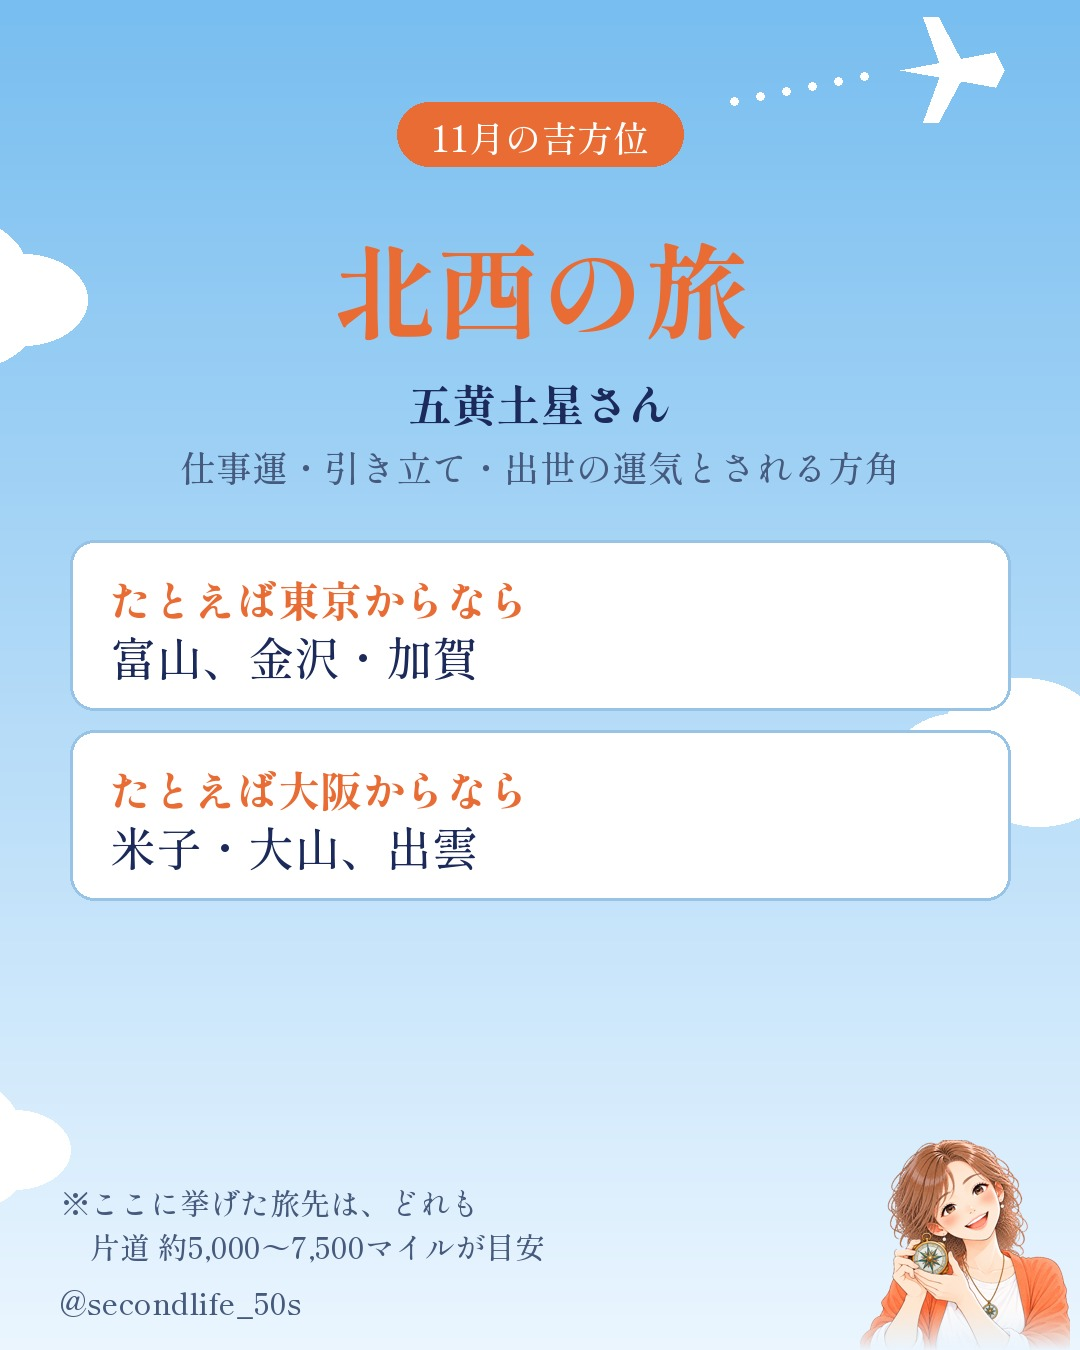
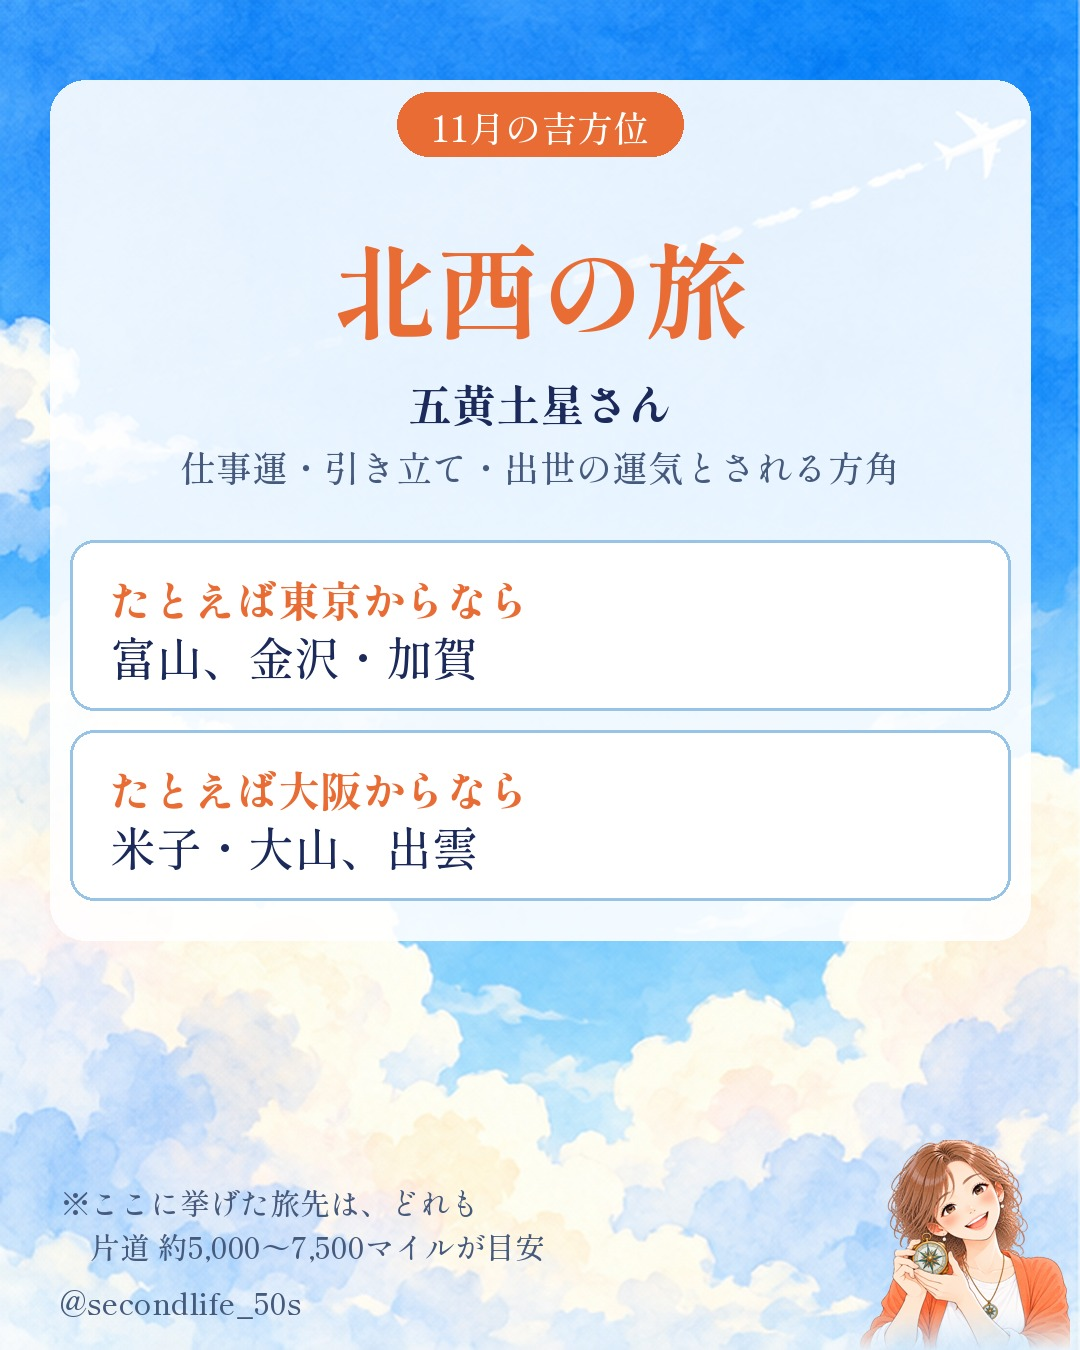
マイル投稿を水彩の空・世界一周の背景で作り直し、背景素材を追加

diff --git a/feed/mile-2026-11/make.py b/feed/mile-2026-11/make.py
@@ -7,23 +7,23 @@ F8='/root/.cache/night-reel-fonts/ShipporiMinchoB1-800.ttf'; F5='/root/.cache/ni
 NAVY=(27,42,90); GOLD=(232,108,52); WHITE=NAVY; SOFT=(70,90,125); CARD=(255,255,255); LINE=(150,195,230)
 C,OUT=sys.argv[1:3]
 f=lambda s,b=True: ImageFont.truetype(F8 if b else F5,s)
-def cloud(d,x,y,w):
-    for dx,dy,r in [(0,0,.30),(.28,-.12,.36),(.62,0,.28),(.36,.08,.32)]:
-        d.ellipse([x+dx*w-r*w,y+dy*w-r*w*.7,x+dx*w+r*w,y+dy*w+r*w*.7],fill=(255,255,255))
-def plane(d,x,y,s):
-    # 小さな飛行機と点線の航路
-    for k in range(6): d.ellipse([x-170+k*26,y+30-k*5-3,x-170+k*26+8,y+30-k*5+5],fill=(255,255,255))
-    d.polygon([(x,y),(x+s,y-s*.18),(x+s*1.1,y),(x+s,y+s*.18)],fill=(255,255,255))
-    d.polygon([(x+s*.45,y),(x+s*.25,y-s*.55),(x+s*.4,y-s*.55),(x+s*.7,y)],fill=(255,255,255))
-    d.polygon([(x+s*.45,y),(x+s*.25,y+s*.55),(x+s*.4,y+s*.55),(x+s*.7,y)],fill=(255,255,255))
-def bg(seed):
-    im=Image.new('RGB',(W,H)); d=ImageDraw.Draw(im)
-    for y in range(H):
-        t=y/H; d.line([(0,y),(W,y)],fill=tuple(int(a+(b-a)*t) for a,b in zip((120,190,240),(235,246,255))))
-    # 雲は文字の少ない左右のはしに置く
-    for x,y,w in [(-120,300,230),(960,760,220),(-110,1150,200)]: cloud(d,x,y,w)
-    plane(d,900,70,95)
-    return im,d
+BG=os.path.join(os.path.dirname(os.path.abspath(__file__)),'..','bgsrc')
+def sky():
+    # 水彩の昼空(縦長)を横1080に拡大し、上(飛行機)と下(雲)をつなぐ
+    s=Image.open(os.path.join(BG,'day-sky-src.png')).convert('RGB'); s=s.resize((W,round(s.height*W/s.width)),Image.LANCZOS)
+    top=s.crop((0,0,W,700)); bot=s.crop((0,s.height-850,W,s.height))
+    im=Image.new('RGB',(W,H)); im.paste(bot,(0,H-850))
+    m=Image.new('L',(W,700),255); md=ImageDraw.Draw(m)
+    for y in range(500,700): md.line([(0,y),(W,y)],fill=int(255*(700-y)/200))
+    im.paste(top,(0,0),m); return im
+SKY=sky()
+def panel(im,y0,y1,a=228):
+    m=Image.new('L',(W,H),0); ImageDraw.Draw(m).rounded_rectangle([50,y0,W-50,y1],radius=36,fill=a)
+    im.paste(Image.new('RGB',(W,H),(255,255,255)),(0,0),m)
+def bg(seed,pan=None):
+    im=SKY.copy()
+    if pan: panel(im,*pan)
+    return im,ImageDraw.Draw(im)
 def ctr(d,y,t,size,col=WHITE,b=True):
     ft=f(size,b)
     for i,line in enumerate(t.split('\n')):
@@ -47,15 +47,19 @@ def card(d,y,h,title,body,tsize=50,bsize=38):
 n=1
 def save(im,name):
     global n; im.save(f'{OUT}/{n}_{name}.jpg',quality=92); n+=1
-# 1 表紙
-im,d=bg(1); kicker(d,140,'2026年11月(11/7〜12/6)')
-ctr(d,270,'片道',64,WHITE,False); ctr(d,360,'7,500マイル',130,GOLD); ctr(d,540,'で行ける',64,WHITE,False)
-ctr(d,660,'11月の吉方位の旅',86)
-d.rounded_rectangle([200,880,880,980],radius=50,fill=GOLD); ctr(d,903,'あなたの星はどの方角？',46,(255,255,255))
-ctr(d,1040,'→ 横にめくってね',38,SOFT,False)
-chara(im,'pose-point-you',300); foot(d); save(im,'表紙')
+# 1 表紙(水彩の世界一周イラスト)
+im=Image.open(os.path.join(BG,'world-cover-src.png')).convert('RGB').resize((W,H),Image.LANCZOS); d=ImageDraw.Draw(im)
+def sctr(y,t,size,col,sc,sw):
+    ft=f(size); d.text(((W-d.textlength(t,font=ft))/2,y),t,font=ft,fill=col,stroke_width=sw,stroke_fill=sc)
+kicker(d,60,'2026年11月(11/7〜12/6)')
+sctr(160,'片道',62,(255,255,255),NAVY,5); sctr(235,'7,500マイル',132,GOLD,(255,255,255),8)
+sctr(400,'で行ける',62,(255,255,255),NAVY,5); sctr(490,'11月の吉方位の旅',86,(255,255,255),NAVY,6)
+d.rounded_rectangle([210,610,870,690],radius=40,fill=NAVY); ctr(d,622,'あなたの星はどの方角？',44,(255,255,255))
+ft=f(34,False); t='横にめくってね →'; w=d.textlength(t,font=ft)
+d.rounded_rectangle([W-w-110,1255,W-50,1315],radius=30,fill=(255,255,255)); d.text((W-w-80,1262),t,font=ft,fill=NAVY)
+d.text((60,1270),'@secondlife_50s',font=f(30,False),fill=NAVY); save(im,'表紙')
 # 2 星ごとの最大吉方
-im,d=bg(2); kicker(d,110,'11月の最大吉方')
+im,d=bg(2,(80,1010)); kicker(d,100,'11月の最大吉方')
 rows=[('二黒土星','東'),('四緑木星','西'),('五黄土星','東・北西'),('七赤金星','東')]
 y=230
 for nm,dr in rows:
@@ -71,21 +75,21 @@ TRIPS=[
  ('東の旅','二黒土星・五黄土星・七赤金星さん','発展・行動力・若さの運気とされる方角',[('たとえば福岡からなら','松山・道後、高知、徳島'),('たとえば札幌からなら','釧路・阿寒'),('たとえば名古屋からなら','東京')],'pose-cheer'),
 ]
 for title,who,luck,ex,pose in TRIPS:
-    im,d=bg(len(title)); kicker(d,110,'11月の吉方位')
+    im,d=bg(1,(80,560+190*len(ex))); kicker(d,100,'11月の吉方位')
     ctr(d,210,title,104,GOLD); ctr(d,370,who,44); ctr(d,440,luck,36,SOFT,False)
     y=540
     for a,b in ex:
         card(d,y,170,a,b,42,46); y+=190
     foot(d,'※ここに挙げた旅先は、どれも\n　片道 約5,000〜7,500マイルが目安'); chara(im,pose,210); save(im,title)
 # 6 マイルの基本
-im,d=bg(6); kicker(d,110,'はじめてのマイル旅')
+im,d=bg(6,(80,1110)); kicker(d,100,'はじめてのマイル旅')
 ctr(d,200,'マイルで行くと\nこんなにおトク',78,GOLD)
 y=470
 for t,b in [('国内線は片道 約5,000マイル〜','近い区間ほど少ないマイルで行けます'),('時期で必要マイルが変わる','連休や年末年始は多め。平日がねらい目'),('予約は早めがコツ','特典航空券は席数に限りがあります')]:
     card(d,y,180,t,b,46,36); y+=205
 foot(d,'※必要マイルは航空会社・時期で変わります。\n　予約前に各社サイトでご確認ください'); save(im,'マイルの基本')
 # 7 まとめ
-im,d=bg(7); kicker(d,140,'あなたの家から見ると？')
+im,d=bg(7,(110,1000)); kicker(d,150,'あなたの家から見ると？')
 ctr(d,270,'方角は\nご自宅から見て\n決まります',74,GOLD)
 ctr(d,640,'プロフィールのリンクの無料診断で\n「行きたい場所」を入れると、\nいつ行くといいかがわかります',44,WHITE,False)
 ctr(d,900,'保存して、旅の計画に使ってね',46,GOLD,False)
